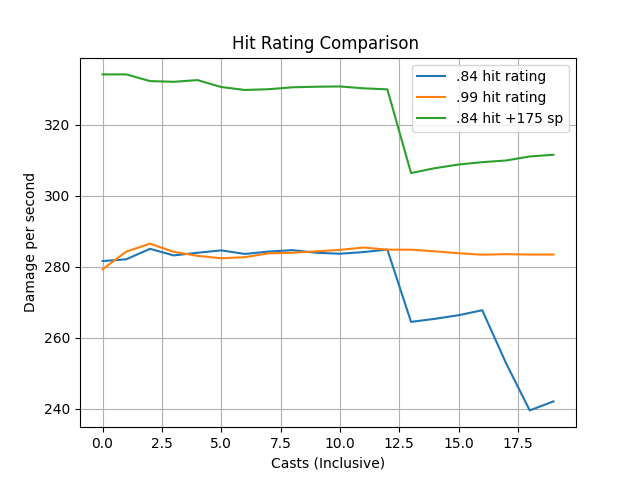
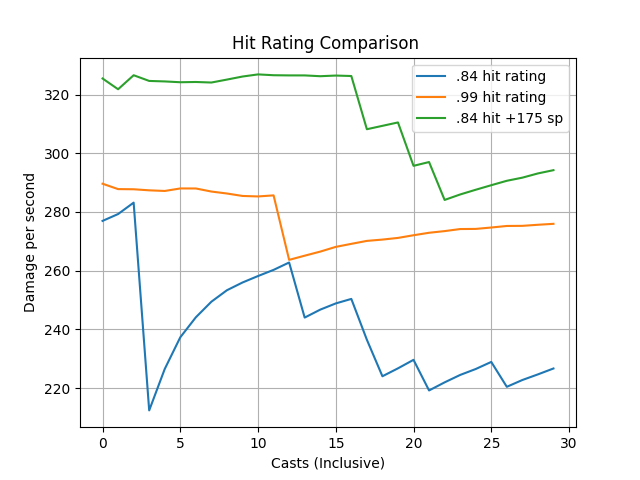
added 90 second fights

diff --git a/spell_hit_simulator.py b/spell_hit_simulator.py
@@ -27,5 +27,5 @@ plt.ylabel("Damage per second")
 plt.grid()
 plt.title("Hit Rating Comparison ")
 plt.legend(loc="upper right")
-plt.savefig("images/image3.png")
+plt.savefig("images/image9.png")
 plt.show()

diff --git a/README.md b/README.md
@@ -28,6 +28,10 @@ It is worth evaulating the real cost to players for the differences explored in 
 - Players will often prioritize +hit if they are not already close to hit cap (i.e., even if they don't pay more for it, they will acquire it first).
 - For crafting, +hit gear is often at a premium compared to other similar items.
 
+#### Conclusion
+
+Although the real cost was not determined, we can surmise that players will spend about ten times more for +hit rating than for +spellpower as hit is measured in the 1's and spellpower is frequently measured in the 10's.
+
 ## Scenario
 
 There are two players: Raider A and Raider B. Raider A has .99 hit rating and 400 spellpower, while Raider B has .84 hit rating. How much spellpower is needed for Raider B to do the same amount of damage as Raider A? 
@@ -42,7 +46,10 @@ A is *(500 + (400 / 3.5 * 3)) * .99 / 3* = 278
 
 B is *(500 + (575 / 3.5 * 3)) * .84 / 3* = 278
 
+
 This answer is slightly misleading, which will be explained in the Simulations section below. In this scenario, Raider B will need 175+ additional spellpower, or a total of 575 spellpower, to match the damage of Raider A. If we take the difference of 175 spellpower and divide by the difference of hit, we get *12 = (575 - 400) / (99 - 84)*. This means about 12 spellpower will do the same damage of +1 hit.
+
+Note: This equation is not linear.
 
         Hit   Spell
     A   .99   400
@@ -51,11 +58,11 @@ This answer is slightly misleading, which will be explained in the Simulations s
 
 # Simulations
 
-## Preface
+## Introduction
 
-Simulations are needed to capture the nuance of randomness, especially given the limited number of casts needed during a raid. For example, many boss fights in Molten Core, Blackwing Lair, and Ahn Qiraj only last one to two minutes, at most. This is enough time for only about thirty casts of Frostbolt or Shadowbolt.
+Simulations are needed to capture the nuance of randomness which can't be captured using simple math, especially given the limited number of casts needed during a raid. For example, many boss fights in Molten Core, Blackwing Lair, and Ahn Qiraj only last one to two minutes, at most. This is enough time for only about thirty casts of Frostbolt or Shadowbolt.
 
-Here we will create a simulator that determines whether a spell hit or is resisted, and if it hit the damage it did hit for. It will then plot a line that takes the average damage done per hit.
+Here we will create a simulator that determines whether a spell hit or is resisted, and if it hit the damage it hit for. It will then plot a line that takes the average damage per hit.
 
 ## Examples
 
@@ -63,6 +70,8 @@ Here we will create a simulator that determines whether a spell hit or is resist
 After 1,000 simulated casts the result was what was calculated above, or about 280 damage per second. Notice the spikes on the left of the graph; as the plot moves to the right the line (or damage) gradually starts to normalize.
 
 ![Figure 1](images/image1.png "Figure 1")Figure 1
+
+These results suggest that during a 50 minute fight the difference between ".84 hit with 175 increased spellpower" and ".99 hit with only the base spellpower" will be roughly equal to each other.
 
 ### A Hundred Casts (5 minutes)
 
@@ -75,3 +84,13 @@ Running less simulated casts effectively creates a zoomed look of the data. The 
 ![Figure 3](images/image3.png "Figure 3")Figure 3
 
 ![Figure 4](images/image4.png "Figure 4")Figure 4
+
+![Figure 5](images/image5.png "Figure 5")Figure 5
+
+![Figure 6](images/image6.png "Figure 6")Figure 6
+
+![Figure 7](images/image7.png "Figure 7")Figure 7
+
+![Figure 8](images/image8.png "Figure 8")Figure 8
+
+![Figure 9](images/image9.png "Figure 9")Figure 9
